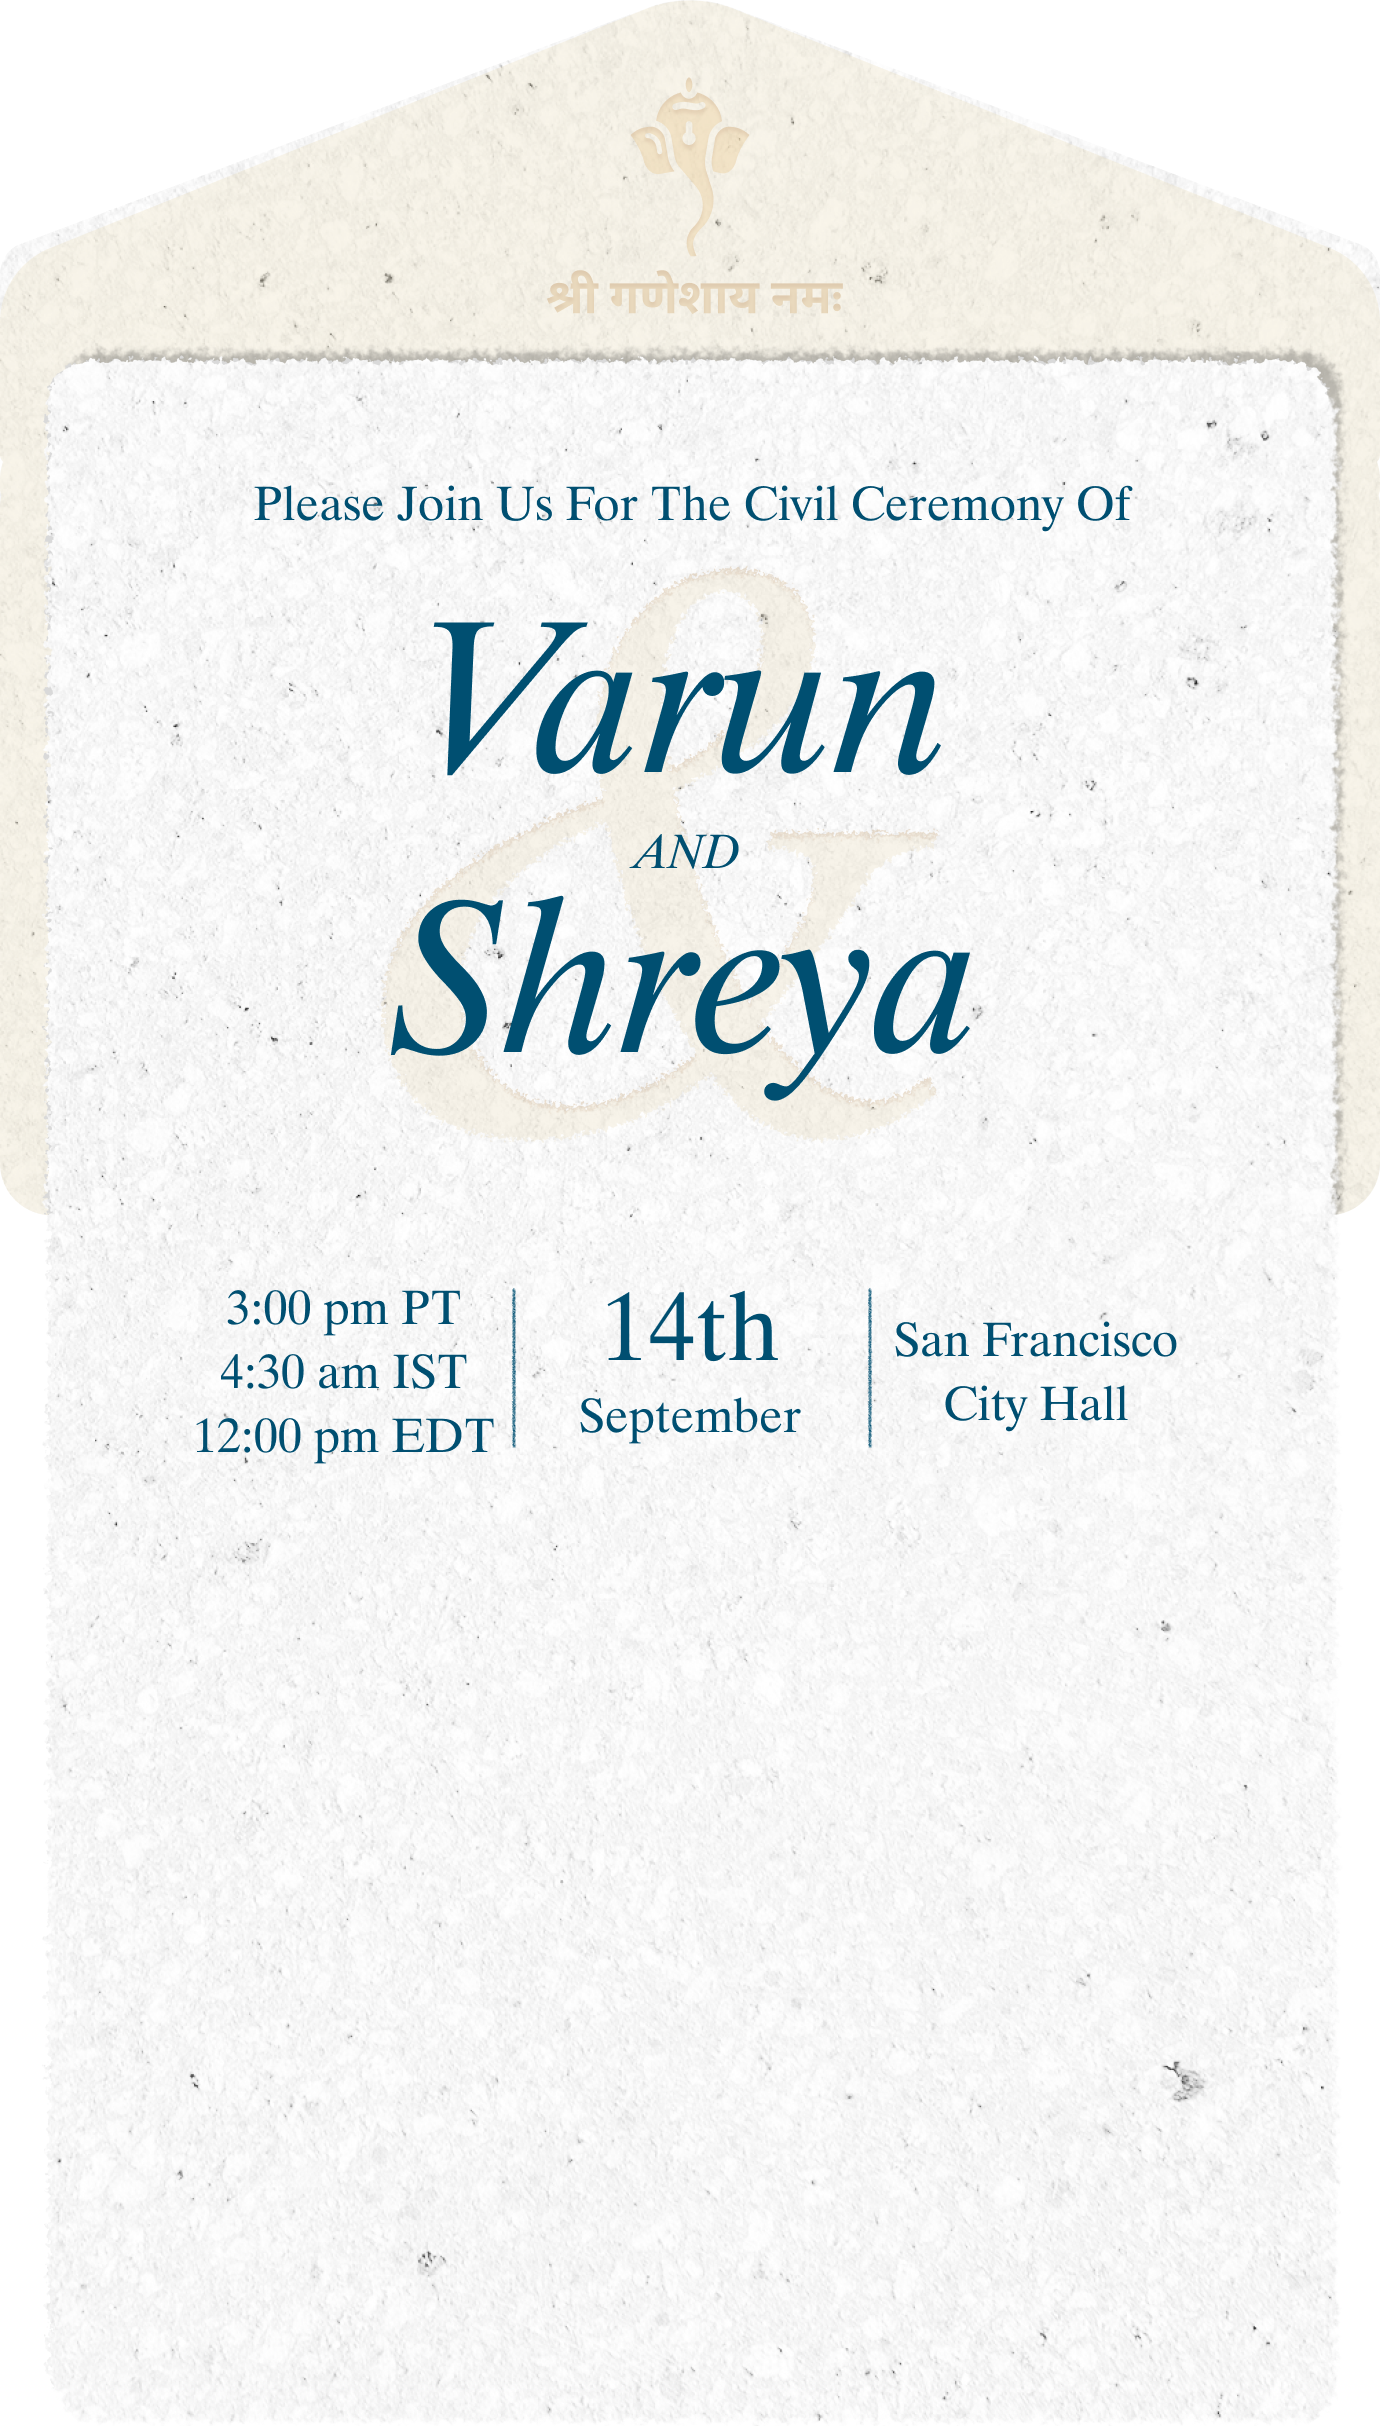
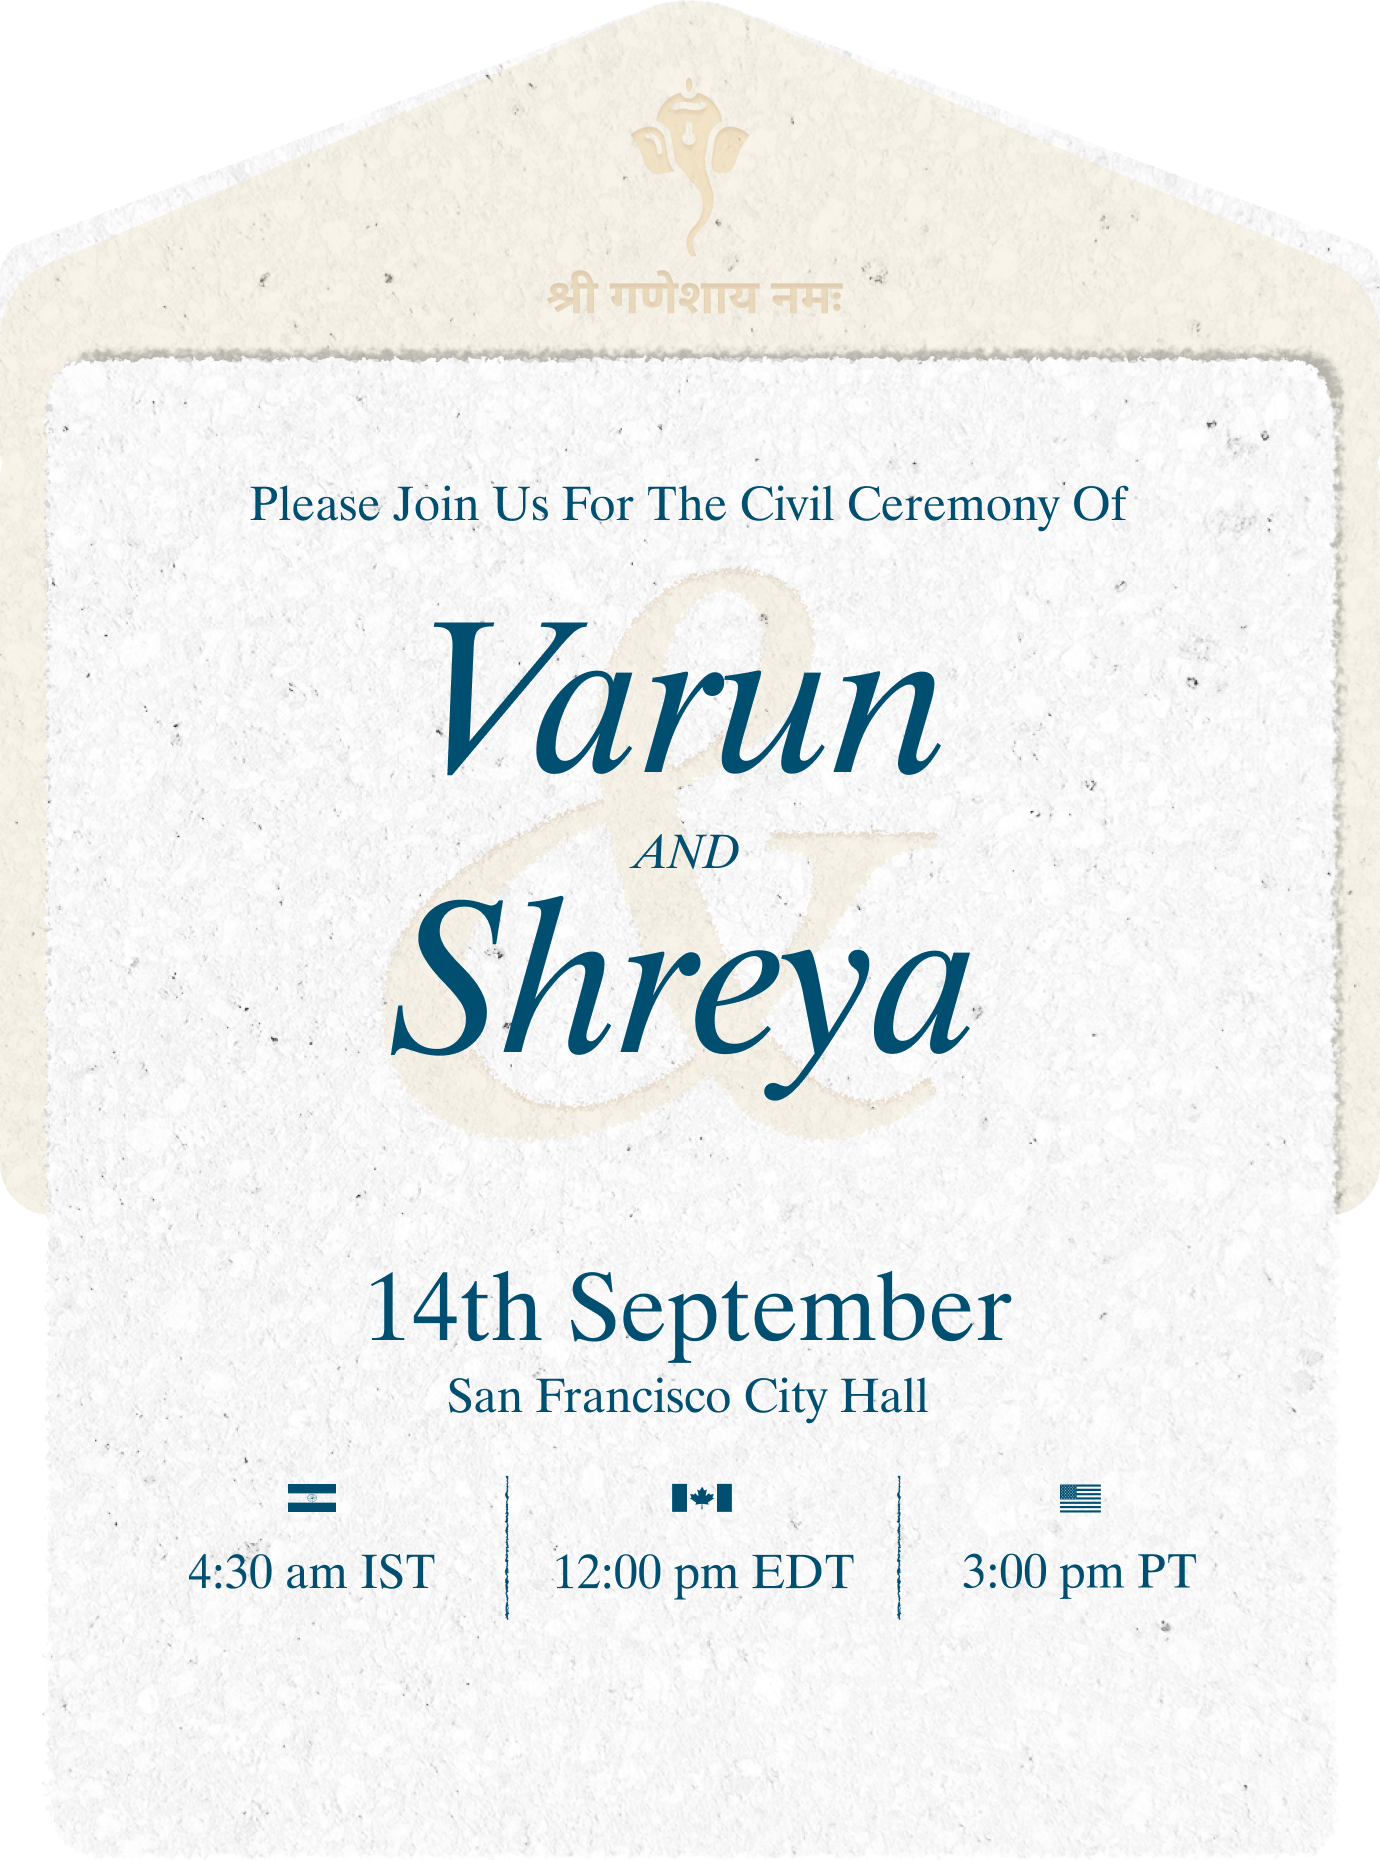
re

diff --git a/script.js b/script.js
@@ -76,34 +76,34 @@
   const FLOW3_BG = "https://www.figma.com/api/mcp/asset/32a7b33b-4dc5-479a-b63a-cfed6bf4b6e2.svg";
 
   const FLOW1_STEPS = [
-    { inset: [0, 84.95, 95.92, 6.97], img: "https://www.figma.com/api/mcp/asset/fcdca1c9-1f5c-4c32-af50-0e7ba42bdd52.png", w: 31.7, h: 24.5, rot: 0 },
-    { inset: [0, 65.88, 95.62, 26.03], img: "https://www.figma.com/api/mcp/asset/6c570975-49c8-4995-b862-ba467ab0432e.png", w: 31.7, h: 26.2, rot: 0 },
-    { inset: [-0.52, 50.37, 95.41, 39.32], img: "https://www.figma.com/api/mcp/asset/e0000a52-09e6-46f9-98c1-4ffac5bce47f.png", w: 36.6, h: 24.5, rot: 10.28 },
-    { inset: [-0.37, 38.69, 94.62, 49.38], img: "https://www.figma.com/api/mcp/asset/3a401996-c6b0-408c-b250-ab2366ff15e9.png", w: 42.4, h: 27.2, rot: 10.28 },
-    { inset: [0.93, 24.47, 92.37, 62.59], img: "https://www.figma.com/api/mcp/asset/254a9ef4-c3c2-44b9-a2db-6a03c1ff5446.png", w: 44.2, h: 25.7, rot: 21.02, opacity: 0.25 },
-    { inset: [3.12, 11.43, 89.38, 75.47], img: "https://www.figma.com/api/mcp/asset/5aae3e4a-3d8a-495b-8e50-eef65c3a0c08.png", w: 44.2, h: 25.7, rot: 30.42 },
-    { inset: [7.11, 0.02, 83.72, 85.2], img: "https://www.figma.com/api/mcp/asset/7f8452e5-07bc-4e3a-bf07-0d2a135fa851.png", w: 51.6, h: 27.9, rot: 39.17 },
-    { inset: [13.79, -3.09, 77, 92.69], img: "https://www.figma.com/api/mcp/asset/0eb64aca-2ad4-4c87-b571-16a4eb1081fd.png", w: 48.3, h: 28.8, rot: 74.35 },
-    { inset: [17.36, -3.25, 74.54, 93.62], img: "https://www.figma.com/api/mcp/asset/a4053f33-51ab-45ea-b4cb-f796fe914f68.png", w: 42.0, h: 27.6, rot: 74.35 },
-    { inset: [31.07, 1.4, 60.47, 85.2], img: "https://www.figma.com/api/mcp/asset/1167208d-6b48-44f5-bf2e-31fca142db20.svg", fill: true, rot: -38.86 },
+    { inset: [0, 84.95, 95.92, 6.97], img: "assets/images/flow1/flow1-step0.png", w: 31.7, h: 24.5, rot: 0 },
+    { inset: [0, 65.88, 95.62, 26.03], img: "assets/images/flow1/flow1-step1.png", w: 31.7, h: 26.2, rot: 0 },
+    { inset: [-0.52, 50.37, 95.41, 39.32], img: "assets/images/flow1/flow1-step2.png", w: 36.6, h: 24.5, rot: 10.28 },
+    { inset: [-0.37, 38.69, 94.62, 49.38], img: "assets/images/flow1/flow1-step3.png", w: 42.4, h: 27.2, rot: 10.28 },
+    { inset: [0.93, 24.47, 92.37, 62.59], img: "assets/images/flow1/flow1-step4.png", w: 44.2, h: 25.7, rot: 21.02, opacity: 0.25 },
+    { inset: [3.12, 11.43, 89.38, 75.47], img: "assets/images/flow1/flow1-step5.png", w: 44.2, h: 25.7, rot: 30.42 },
+    { inset: [7.11, 0.02, 83.72, 85.2], img: "assets/images/flow1/flow1-step6.png", w: 51.6, h: 27.9, rot: 39.17 },
+    { inset: [13.79, -3.09, 77, 92.69], img: "assets/images/flow1/flow1-step7.png", w: 48.3, h: 28.8, rot: 74.35 },
+    { inset: [17.36, -3.25, 74.54, 93.62], img: "assets/images/flow1/flow1-step8.png", w: 42.0, h: 27.6, rot: 74.35 },
+    { inset: [31.07, 1.4, 60.47, 85.2], img: "assets/images/flow1/flow1-step9.png", fill: true, rot: -38.86 },
   ];
 
   const FLOW2_STEPS = [
-    { inset: [31.07, 1.4, 60.47, 85.2], img: "https://www.figma.com/api/mcp/asset/b6ac8783-ddfd-488b-a62e-f2f1f0a822fd.svg", fill: true, rot: -38.86 },
-    { inset: [27.8, 14.19, 59.86, 66.1], img: "https://www.figma.com/api/mcp/asset/4e9c41b9-aee1-4462-9c19-9d780579f2ec.svg", fill: true, rot: -38.86 },
-    { inset: [32.52, 33.42, 57.82, 47.46], img: "https://www.figma.com/api/mcp/asset/8038fb89-3c9b-41e5-95be-2c11bf93f704.svg", fill: true, rot: -14.09 },
-    { inset: [27.59, 55.63, 62.28, 23.63], img: "https://www.figma.com/api/mcp/asset/947cb28c-3789-4f74-8f3d-72f969513439.svg", fill: true, rot: -14.09 },
+    { inset: [31.07, 1.4, 60.47, 85.2], img: "assets/images/flow2/flow2-step0.png", fill: true, rot: -38.86 },
+    { inset: [27.8, 14.19, 59.86, 66.1], img: "assets/images/flow2/flow2-step1.png", fill: true, rot: -38.86 },
+    { inset: [32.52, 33.42, 57.82, 47.46], img: "assets/images/flow2/flow2-step2.png", fill: true, rot: -14.09 },
+    { inset: [27.59, 55.63, 62.28, 23.63], img: "assets/images/flow2/flow2-step3.png", fill: true, rot: -14.09 },
   ];
 
   const FLOW3_STEPS = [
-    { inset: [48.31, 74.98, 39.76, 7.57], img: "https://www.figma.com/api/mcp/asset/6b867d69-b9c2-4603-b212-c6c99b4399ab.png", w: 80, h: 63, rot: 7.82 },
-    { inset: [52.66, 54.48, 28.37, 21.72], img: "https://www.figma.com/api/mcp/asset/57c99570-d7eb-434e-a938-f1570e558da9.png", w: 94.78, h: 73.3, rot: -38.84 },
-    { inset: [49.86, 26.14, 27.8, 45.56], img: "https://www.figma.com/api/mcp/asset/e54d3bf3-7a97-4262-beec-84c0985011fb.png", w: 116.66, h: 82.23, rot: -38.84 },
+    { inset: [48.31, 74.98, 39.76, 7.57], img: "assets/images/flow3/flow3-step0.png", w: 80, h: 63, rot: 7.82 },
+    { inset: [52.66, 54.48, 28.37, 21.72], img: "assets/images/flow3/flow3-step1.png", w: 94.78, h: 73.3, rot: -38.84 },
+    { inset: [49.86, 26.14, 27.8, 45.56], img: "assets/images/flow3/flow3-step2.png", w: 116.66, h: 82.23, rot: -38.84 },
   ];
 
   const FLOW4_STEPS = [
-    { inset: [65.31, 3.15, 13.43, 72.48], img: "https://www.figma.com/api/mcp/asset/aaddcd57-5bd4-48a3-ae1f-b5333a563039.png", w: 120, h: 95.8, rot: 19.63 },
-    { inset: [92.18, -7.41, -12.74, 80.03], img: "https://www.figma.com/api/mcp/asset/1c2e9f6b-c8cf-401d-bca4-09fa294ddb4b.png", w: 143.7, h: 82.7, rot: 19.63 },
+    { inset: [65.31, 3.15, 13.43, 72.48], img: "assets/images/flow4/flow4-step0.png", w: 120, h: 95.8, rot: 19.63 },
+    { inset: [92.18, -7.41, -12.74, 80.03], img: "assets/images/flow4/flow4-step1.png", w: 143.7, h: 82.7, rot: 19.63 },
   ];
 
   function setupFlow(el, bgUrl) {
@@ -295,8 +295,8 @@
     { img: "assets/images/postcard/postcard-4.png", h: 331 },
     { img: "assets/images/postcard/postcard-5.png", h: 606.5 },
     { img: "assets/images/postcard/postcard-6.png", h: 624.6 },
-    { img: "assets/images/postcard/postcard-7.png", h: 606.5 },
-    { img: "assets/images/postcard/postcard-8.png", h: 650 },
+    { img: "assets/images/postcard/postcard-7.png", h: 465 },
+    { img: "assets/images/postcard/postcard-8.png", h: 564 },
   ];
 
   const postcardCard = document.getElementById("postcard-card");
@@ -310,8 +310,21 @@
   const PC_CROSSFADE_MS = 130; // 2x faster than the original 260ms
   let pcRemoveTimer = null;
 
+  // Bumped on every renderPcState call. The flip advances on a fixed timer
+  // (PC_DELAYS) regardless of whether the current image has actually
+  // finished downloading yet — fine on a fast/cached connection, but on a
+  // slow one a state's "load" event can fire AFTER a later state has
+  // already been requested. Without this guard that late callback still
+  // appends its (now stale) frame, and since it wasn't in the DOM yet when
+  // the newer call ran its own cleanup, it never gets removed — leaving two
+  // postcard frames stuck on screen at once (reported as the postcard
+  // "showing twice"). Each render captures its own token and only the
+  // still-current one is allowed to touch the DOM.
+  let pcRenderToken = 0;
+
   function renderPcState(idx) {
     const state = PC_STATES[idx];
+    const token = ++pcRenderToken;
 
     // The "Join The Ceremony" button is baked into postcard-8.png itself —
     // only line it up as a real link once that's the state on screen, so
@@ -336,6 +349,10 @@
     newImg.src = state.img;
 
     function swapIn() {
+      // A newer renderPcState call has since superseded this one — that
+      // call's own load/error handler will do the real swap. Bail out
+      // instead of appending an out-of-order (and now-orphaned) frame.
+      if (token !== pcRenderToken) return;
       postcardCard.style.height = state.h + "px";
       if (oldImg) {
         newImg.style.position = "absolute";

diff --git a/styles.css b/styles.css
@@ -300,23 +300,49 @@ body {
 
 /* Invisible hit target laid exactly over the "Join The Ceremony" button
    baked into postcard-8.png (the final flip-through state). Coordinates are
-   pixel-measured from that source image (button box 468,2313 -> 911,2410
-   within the 1380x2600 asset), scaled to the card's rendered size at that
-   state (345 x 650). Only shown once the final state is on screen — see the
+   pixel-measured from that source image (button box 468,1992 -> 911,2091
+   within the 1380x2256 asset), scaled to the card's rendered size at that
+   state (345 x 564). Only shown once the final state is on screen — see the
    pcJoin toggle in renderPcState() in script.js. Sits as a sibling of
    .postcard-card, not nested inside it, since a <button> can't validly
    contain an <a>. */
 .pc-join {
   position: absolute;
   left: 117px;
-  top: 578px;
+  top: 498px;
   width: 111px;
-  height: 24px;
+  height: 25px;
   z-index: 2;
   display: none;
 }
 
 /* ---------- nav pills ---------- */
+
+/* Pinned to the viewport, not the document — always masks the bottom edge
+   of the screen with cloud/mist, no matter how tall the device viewport is
+   or how far the page has scrolled. Fixes the flat solid-color band that
+   showed up past the end of a frame's own (finite-height) background art. */
+.fixed-cloud-bottom {
+  position: fixed;
+  left: 50%;
+  bottom: 0;
+  transform: translateX(-50%);
+  width: 100%;
+  max-width: var(--frame-w);
+  min-width: 320px;
+  height: 200px;
+  background-image: url("assets/images/back-cloud-bottom.webp");
+  background-size: cover;
+  background-position: bottom center;
+  background-repeat: no-repeat;
+  pointer-events: none;
+  z-index: 480; /* below nav-pills (500), above regular page content */
+  /* Fades in from fully transparent at the top edge so it softly blends
+     with whatever content happens to scroll underneath it, instead of a
+     hard-edged band sitting on top of it (e.g. the postcard's QR/button). */
+  -webkit-mask-image: linear-gradient(to bottom, transparent 0%, black 60%);
+  mask-image: linear-gradient(to bottom, transparent 0%, black 60%);
+}
 
 .nav-pills {
   position: fixed;

diff --git a/index.html b/index.html
@@ -176,6 +176,13 @@
     </div>
   </section>
 
+  <!-- Fixed to the viewport bottom (not tied to any screen's scroll height),
+       so there's always cloud/mist covering the very bottom of the screen
+       instead of the flat page background showing through on tall
+       viewports or once scrolled past a frame's own art. Sits under the
+       fixed nav pills, above everything else. -->
+  <div class="fixed-cloud-bottom" aria-hidden="true"></div>
+
 </div>
 
 <script src="script.js"></script>
